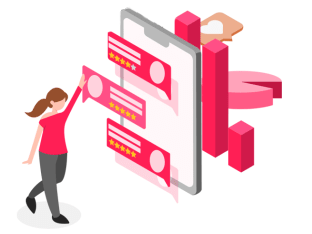
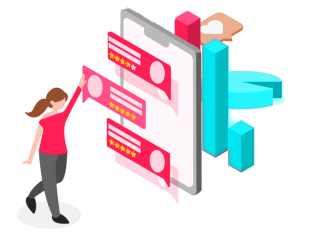
Play around with colors

Changed region(s): [[0.6346, 0.1496, 0.9231, 0.7479]]

diff --git a/_sass/application.scss b/_sass/application.scss
@@ -2,8 +2,8 @@
 @import "breakpoints";
 
 :root {
-  --primary-color: #d02858;
-  --secondary-color: #625257;
+  --primary-color: #da184f;
+  --secondary-color: #1bcad6;
   --primary-bg-color: white;
   --secondary-bg-color: #eee;
 }
@@ -11,11 +11,13 @@
 body {
   background-color: var(--primary-bg-color);
   font-size: 150%;
-  font-family: 'Helvetica Neue', Arial, sans-serif;
+  font-family: "Helvetica Neue", Arial, sans-serif;
   margin: 0;
 }
 
-h1, h2, h3 {
+h1,
+h2,
+h3 {
   text-align: center;
   color: var(--primary-color);
 }
@@ -40,7 +42,9 @@ h1, h2, h3 {
   }
 }
 
-section, footer, nav {
+section,
+footer,
+nav {
   .content {
     max-width: 1000px;
     margin: 0 auto;
@@ -58,7 +62,7 @@ footer.diagonals {
   color: white;
 
   a {
-    color: inherit
+    color: inherit;
   }
 
   ul {

diff --git a/_sass/_about.scss b/_sass/_about.scss
@@ -1,8 +1,11 @@
 section#about {
-  background: var(--primary-color) linear-gradient(45deg, var(--secondary-color) 0%, var(--primary-color) 75%);
+  // background: var(--primary-color) linear-gradient(45deg, var(--secondary-color) 0%, var(--primary-color) 75%);
+  background: var(--primary-color);
   color: white;
 
-  h1, h2, h3 {
+  h1,
+  h2,
+  h3 {
     color: inherit;
   }
 
